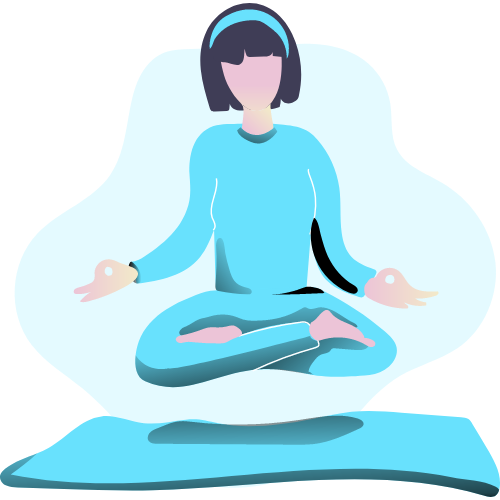
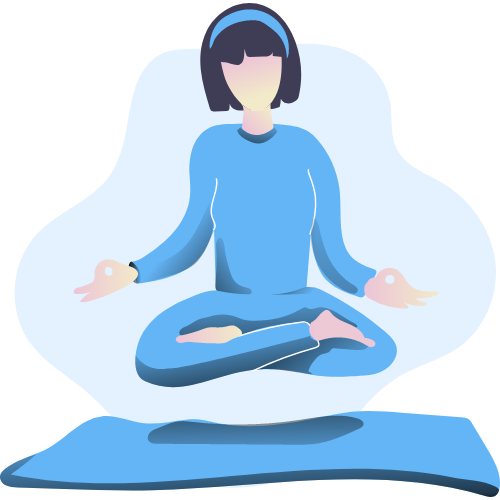
Rework app colors

diff --git a/lib/home_screen/home_screen.dart b/lib/home_screen/home_screen.dart
@@ -1,6 +1,7 @@
 import 'package:flutter/material.dart';
 import 'package:zen_app/home_screen/hello_text.dart';
 import 'package:zen_app/home_screen/widgets/custom_fab.dart';
+import 'package:zen_app/home_screen/widgets/home_screen_image.dart';
 import 'package:zen_app/home_screen/widgets/meditation_time_text.dart';
 import 'package:zen_app/select_meditation_time_dialog/meditation_time_select_dialog.dart';
 import 'package:zen_app/settings_screen/setting_screen.dart';
@@ -35,15 +36,7 @@ class HomeScreen extends StatelessWidget {
                 ),
               ],
             ),
-            Padding(
-              padding: const EdgeInsets.only(
-                left: 42,
-                right: 42,
-                bottom: 42,
-                top: 22,
-              ),
-              child: Image.asset('assets/meditation-girl.png'),
-            ),
+            const HomeScreenImage(),
             const HelloText(),
             Container(height: 6),
             const MeditationTimeText(),

diff --git a/lib/util/styles.dart b/lib/util/styles.dart
@@ -22,7 +22,7 @@ abstract class Styles {
     shadows: [smallTextShadow],
   );
 
-  static const TextStyle numberPickerTextStyle = TextStyle(
+  static TextStyle numberPickerTextStyle = TextStyle(
     color: buttonColor,
     fontSize: 30,
   );
@@ -46,11 +46,18 @@ abstract class Styles {
   );
 
   static ThemeData myThemeData = ThemeData(
+    primaryColor: buttonColor,
+    toggleableActiveColor: buttonColor,
     brightness: Brightness.dark,
     textTheme: const TextTheme(
       bodyText2: basicText,
     ),
+    textButtonTheme: TextButtonThemeData(
+      style: TextButton.styleFrom(
+        foregroundColor: buttonColor,
+      ),
+    ),
   );
 
-  static const Color buttonColor = Color(0xff5CBBD7);
+  static Color buttonColor = Colors.blue[300]!;
 }

diff --git a/lib/home_screen/widgets/home_screen_image.dart b/lib/home_screen/widgets/home_screen_image.dart
@@ -1,0 +1,18 @@
+import 'package:flutter/material.dart';
+
+class HomeScreenImage extends StatelessWidget {
+  const HomeScreenImage({super.key});
+
+  @override
+  Widget build(BuildContext context) {
+    return Padding(
+      padding: const EdgeInsets.only(
+        left: 42,
+        right: 42,
+        bottom: 42,
+        top: 22,
+      ),
+      child: Image.asset('assets/meditation-girl.png'),
+    );
+  }
+}

diff --git a/TODO.md b/TODO.md
@@ -1,6 +1,6 @@
 - Color scheme kondikseen!
 - Intro screens
-- Makes settings actually work
-- Better app name
 - launch in gPlay link fix
 - Register full stats
+- Alert if audio is 0
+- app icon
